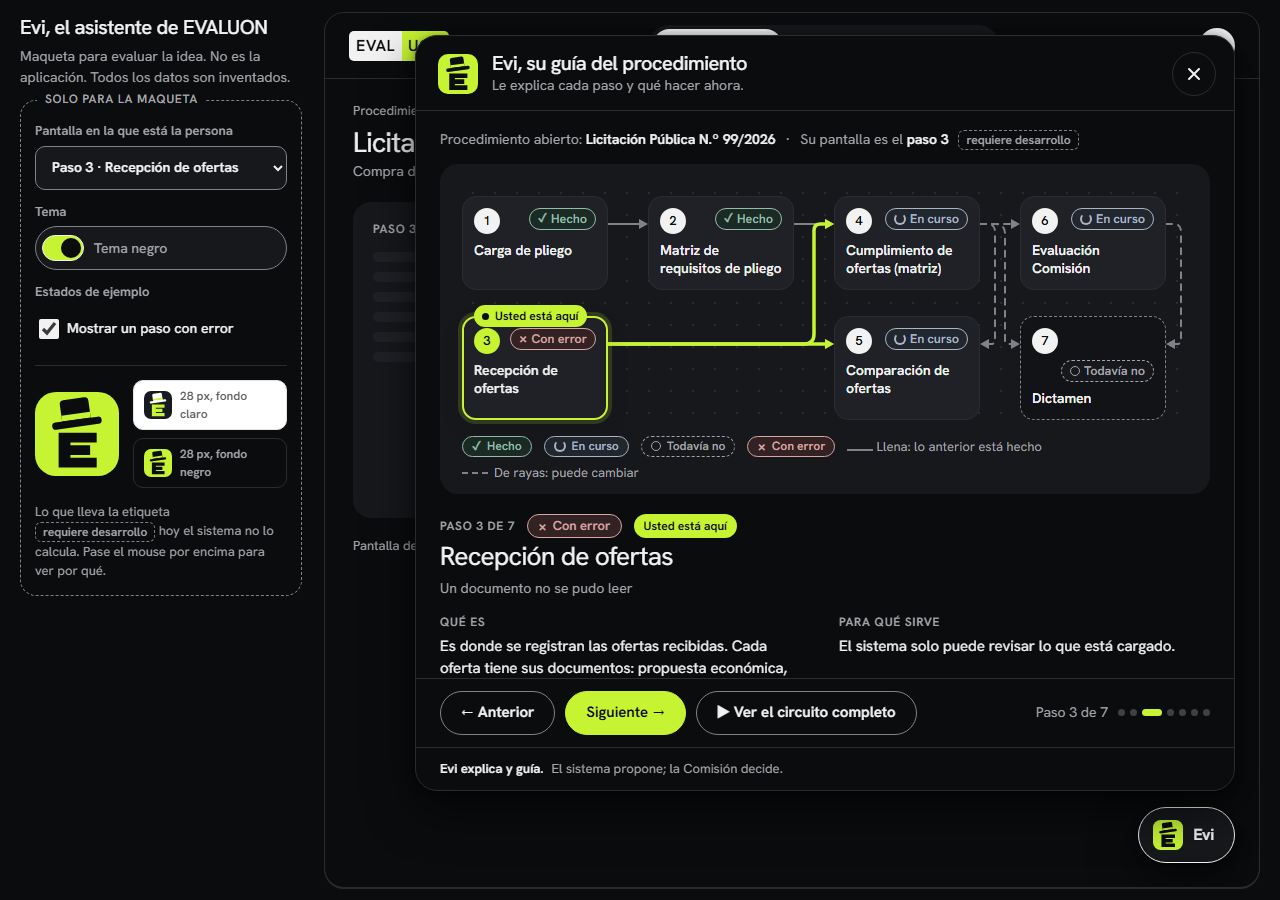
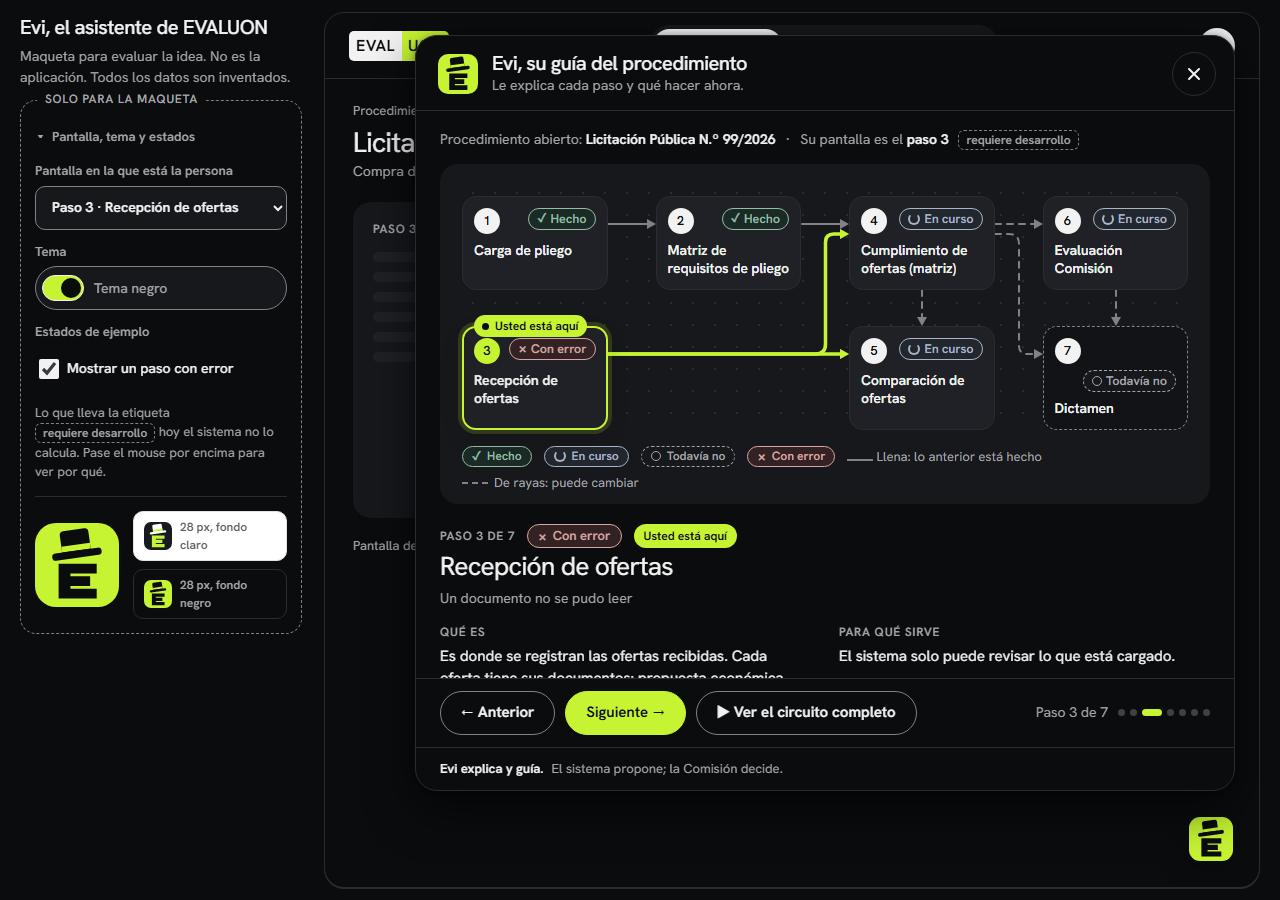
gestión: prototipo de Evi, segunda vuelta (gráfico en angosto, botón animado, preguntas experimentales)

diff --git a/docs/diseno/evi/index.html b/docs/diseno/evi/index.html
@@ -108,10 +108,14 @@ button,select{font:inherit;color:inherit}
 .proc .cap{width:34px;height:34px;border-radius:50%;background:var(--tile-h);flex:none}
 
 /* ---------- Botón de Evi ---------- */
-.evi-btn{position:absolute;right:24px;bottom:24px;z-index:30;display:inline-flex;align-items:center;gap:10px;min-height:56px;padding:0 20px 0 14px;border-radius:999px;border:1.5px solid var(--ink);background:var(--bg);box-shadow:var(--sombra);cursor:pointer;font-size:16px;font-weight:600;letter-spacing:-.01em;transition:transform .24s var(--e-out),background .2s}
-.evi-btn:hover{background:var(--tile)}
-.evi-btn[aria-expanded="true"]{background:var(--tile)}
-.evi-btn:active{transform:scale(.98)}
+.evi-btn{position:absolute;right:24px;bottom:24px;z-index:30;width:48px;height:48px;padding:2px;border-radius:16px;border:0;background:none;cursor:pointer;filter:drop-shadow(0 6px 14px rgba(0,0,0,.28));transition:transform .24s var(--e-out)}
+.evi-btn:hover{transform:translateY(-2px)}
+.evi-btn:active{transform:scale(.97)}
+.evi-btn .tip{position:absolute;right:56px;top:50%;transform:translateY(-50%);background:var(--btn);color:var(--on-btn);font-size:13px;font-weight:600;padding:6px 12px;border-radius:999px;white-space:nowrap;opacity:0;pointer-events:none;transition:opacity .16s}
+.evi-btn:hover .tip,.evi-btn:focus-visible .tip{opacity:1}
+.sombrero{transform-box:fill-box;transform-origin:50% 100%}
+.evi-btn:hover .sombrero,.evi-btn.saluda .sombrero{animation:saludo 1s var(--e-io) 1}
+@keyframes saludo{0%{transform:none}25%{transform:translateY(-3px) rotate(-12deg)}55%{transform:translateY(-2px) rotate(5deg)}80%{transform:translateY(-1px) rotate(-3deg)}100%{transform:none}}
 
 /* ---------- Panel de Evi ---------- */
 .evi{position:absolute;right:24px;bottom:96px;z-index:40;width:min(820px,calc(100% - 48px));max-height:calc(100% - 118px);display:flex;flex-direction:column;background:var(--bg);border:1px solid var(--line);border-radius:22px;box-shadow:var(--sombra);transition:opacity .28s var(--e-out),transform .28s var(--e-out),visibility 0s linear 0s}
@@ -137,7 +141,7 @@ button,select{font:inherit;color:inherit}
 
 /* Mapa */
 .mapa-caja{background:var(--tile);border-radius:18px;padding:18px 22px 12px;position:relative}
-.mapa{position:relative;display:grid;grid-template-columns:repeat(4,minmax(0,1fr));grid-template-rows:auto auto;column-gap:40px;row-gap:26px;padding:14px 22px 4px 0;background-image:radial-gradient(var(--mapa-punto) 1px,transparent 1px);background-size:22px 22px}
+.mapa{position:relative;display:grid;grid-template-columns:repeat(4,minmax(0,1fr));grid-template-rows:auto auto;column-gap:48px;row-gap:36px;padding:14px 0 4px 0;background-image:radial-gradient(var(--mapa-punto) 1px,transparent 1px);background-size:22px 22px}
 .aristas{position:absolute;left:0;top:0;pointer-events:none;overflow:visible}
 .aristas .base{fill:none;stroke:var(--ink-3);stroke-width:2;stroke-linecap:round}
 .aristas .base.rayas{stroke-dasharray:6 6}
@@ -164,6 +168,17 @@ button,select{font:inherit;color:inherit}
 .nodo .cab{display:flex;align-items:center;justify-content:space-between;gap:6px;flex-wrap:wrap}
 .nodo .cab .pill{margin-left:auto}
 .nodo .cab .pill{padding:1px 8px;gap:4px;font-size:12.5px}
+.nodo .num{position:relative}
+.nodo .corto,.nodo .sim{display:none}
+.nodo .sim{position:absolute;top:-7px;right:-9px;width:19px;height:19px;border-radius:50%;border:1.5px solid currentColor;font-size:12px;line-height:1;font-weight:700;place-items:center}
+.sim.hecho{color:var(--ok-ink);background:var(--ok-bg)}
+.sim.hecho::before{content:"\2713"}
+.sim.en_curso{color:var(--pe-ink);background:var(--pe-bg)}
+.sim.en_curso::before{content:"";width:8px;height:8px;border-radius:50%;border:2px solid currentColor;border-top-color:transparent}
+.sim.todavia_no{color:var(--ink-2);background:var(--tile);border-style:dashed}
+.sim.todavia_no::before{content:"";width:7px;height:7px;border-radius:50%;border:1.5px solid currentColor}
+.sim.con_error{color:var(--no-ink);background:var(--no-bg)}
+.sim.con_error::before{content:"\00D7";font-size:14px}
 .pill{display:inline-flex;align-items:center;gap:6px;align-self:flex-start;padding:2px 10px;border:1px solid currentColor;border-radius:999px;font-size:13px;font-weight:600;line-height:1.4;white-space:nowrap}
 .pill::before{content:"";width:8px;height:8px;border-radius:50%;background:currentColor;flex:none}
 .pill.hecho{color:var(--ok-ink);background:var(--ok-bg)}
@@ -217,6 +232,24 @@ button,select{font:inherit;color:inherit}
 .recuadro h4::before{content:"?";display:grid;place-items:center;width:20px;height:20px;border-radius:50%;border:1.5px solid var(--ink);font-size:12px;font-weight:700;flex:none}
 .recuadro p{margin:0;font-size:14px;line-height:1.5;color:var(--ink-2)}
 .estados-intro{display:flex;flex-wrap:wrap;gap:8px;margin:12px 0 0}
+.preg{margin:22px 0 14px;border:1.5px dashed var(--ink-3);border-radius:16px;padding:14px 16px 16px}
+.preg h4{display:flex;flex-wrap:wrap;align-items:center;gap:8px;font-size:16px;font-weight:600;margin:0 0 4px;letter-spacing:-.01em}
+.exp{font-size:12px;font-weight:700;letter-spacing:.05em;text-transform:uppercase;padding:1px 9px;border-radius:999px;background:var(--lime);color:var(--on-lime);border:1px solid var(--ink)}
+.preg-nota{margin:0 0 10px;font-size:14px;color:var(--ink-2)}
+.ejemplos{display:flex;flex-wrap:wrap;gap:8px;margin:0 0 12px}
+.ejemplos button{min-height:44px;padding:8px 14px;border-radius:14px;border:1px solid var(--ink-3);background:var(--bg);font-size:14px;text-align:left;cursor:pointer;line-height:1.3}
+.ejemplos button:hover{background:var(--tile);border-color:var(--ink)}
+.preg-form{display:flex;gap:8px}
+.preg-form input{flex:1;min-width:0;min-height:44px;border:1px solid var(--ink-3);border-radius:999px;padding:0 16px;background:var(--bg);color:var(--ink);font-size:15px}
+.preg-sal{margin-top:12px}
+.burbuja{background:var(--tile-h);border-radius:14px 14px 4px 14px;padding:8px 14px;margin:0 0 8px auto;max-width:90%;width:fit-content;font-size:14px}
+.respuesta{background:var(--tile);border-radius:14px;padding:12px 16px}
+.respuesta p{margin:0 0 8px;font-size:15px;line-height:1.5}
+.respuesta .fuente,.respuesta .aviso-ia{font-size:13px;color:var(--ink-2);margin:0}
+.respuesta .fuente{margin-top:4px;font-weight:600}
+.pensando{margin:0;font-size:15px;color:var(--ink-2);display:flex;align-items:center;gap:8px}
+.pensando::before{content:"";width:12px;height:12px;border-radius:50%;border:2px solid currentColor;border-top-color:transparent;animation:gira .8s linear infinite}
+@keyframes gira{to{transform:rotate(360deg)}}
 .evi-pie{border-top:1px solid var(--line);padding:11px 24px 12px;font-size:13px;color:var(--ink-2);display:flex;gap:8px;align-items:center}
 .evi-pie b{color:var(--ink);font-weight:600}
 .fade{animation:entra .36s var(--e-out)}
@@ -246,23 +279,34 @@ button,select{font:inherit;color:inherit}
   .bloques{grid-template-columns:1fr}
   .bloque.alto{grid-row:auto;min-height:150px}
   .evi-btn{right:14px;bottom:14px}
-  .evi{left:8px;right:8px;width:auto;top:8px;bottom:84px;max-height:none;border-radius:18px}
+  .evi{left:8px;right:8px;width:auto;top:8px;bottom:72px;max-height:none;border-radius:18px}
   .evi-cab{padding:12px 12px 10px 16px}
-  .evi-cuerpo{padding:14px 14px 4px}
-  .mapa-caja{padding:12px;border-radius:14px}
-  .mapa{display:flex;flex-direction:column;gap:8px;padding:0;background:none}
-  .aristas{display:none}
-  .nodo{display:grid;grid-template-columns:auto 1fr auto;column-gap:10px;row-gap:2px;align-items:center;padding:10px 12px;position:static}
-  .nodo.sel{padding:9px 11px}
-  .nodo .cab{display:contents}
-  .nodo .num{grid-row:1/3;grid-column:1}
-  .nodo .nombre{grid-column:2;grid-row:1}
-  .nodo .dato{grid-column:2;grid-row:2}
-  .nodo.sel .dato{display:block}
-  .nodo.sel .dato:empty{display:none}
-  .nodo .pill{grid-column:3;grid-row:1/3;align-self:center}
-  .nodo.sel .dep{display:block;grid-column:2/4;grid-row:3;margin-top:2px}
-  .nodo .aqui{position:static;grid-column:2/4;grid-row:4;justify-self:start;margin-top:6px}
+  .evi-cuerpo{padding:14px 10px 4px}
+  .mapa-caja{padding:10px 8px 8px;border-radius:14px}
+  .mapa{grid-template-columns:repeat(4,minmax(0,1fr));column-gap:14px;row-gap:30px;padding:0;background:none}
+  .mapa .nodo,.mapa .nodo.sel,.mapa .nodo.s-todavia_no{background:none;border:0;box-shadow:none;padding:0;gap:4px;align-items:center;text-align:center;border-radius:10px}
+  .mapa .nodo:hover{border:0}
+  .nodo .nombre,.nodo .pill,.nodo .dato,.nodo .dep{display:none}
+  .nodo .corto{display:block;font-size:12px;font-weight:600;line-height:1.2;min-height:29px;text-align:center;hyphens:manual}
+  .nodo .sim{display:grid}
+  .nodo .num{width:34px;height:34px;font-size:15px;background:var(--mapa-nodo);color:var(--ink);border:3px solid var(--ink-3)}
+  .nodo.s-hecho .num{border-color:var(--ok)}
+  .nodo.s-en_curso .num{border-color:var(--pe)}
+  .nodo.s-con_error .num{border-color:var(--no)}
+  .nodo.s-todavia_no .num{border-style:dashed}
+  .mapa .nodo.sel .num{background:var(--sel);color:var(--bg);box-shadow:0 0 0 4px color-mix(in srgb,var(--sel) 22%,transparent)}
+  [data-theme="negro"] .mapa .nodo.sel .num{color:#0B0C0E}
+  .nodo .cab{display:flex;justify-content:center}
+  .nodo .aqui{position:static;flex:none;order:3}
+  .nodo .aqui[hidden]{display:inline-flex!important;visibility:hidden}
+  .nodo[data-n="1"],.nodo[data-n="2"],.nodo[data-n="4"],.nodo[data-n="6"]{justify-content:flex-end}
+  .nodo[data-n="1"] .aqui,.nodo[data-n="2"] .aqui,.nodo[data-n="4"] .aqui,.nodo[data-n="6"] .aqui{order:0}
+  .nodo[data-n="1"] .corto,.nodo[data-n="2"] .corto,.nodo[data-n="4"] .corto,.nodo[data-n="6"] .corto{order:1}
+  .nodo[data-n="1"] .cab,.nodo[data-n="2"] .cab,.nodo[data-n="4"] .cab,.nodo[data-n="6"] .cab{order:2}
+  .nodo[data-n="3"] .cab,.nodo[data-n="5"] .cab,.nodo[data-n="7"] .cab{order:0}
+  .nodo[data-n="3"] .corto,.nodo[data-n="5"] .corto,.nodo[data-n="7"] .corto{order:1}
+  .nodo[data-n="3"] .aqui,.nodo[data-n="1"] .aqui{align-self:flex-start}
+  .nodo[data-n="6"] .aqui,.nodo[data-n="7"] .aqui{align-self:flex-end}
   .dos{grid-template-columns:1fr}
   .texto h3{font-size:22px}
   .recorrido{padding:10px 12px;gap:8px}
@@ -271,6 +315,9 @@ button,select{font:inherit;color:inherit}
   .contexto .sep{display:none}
   .recorrido .btn{flex:1 1 auto;padding:0 12px}
   .evi-pie{padding:10px 14px}
+  .preg{padding:12px}
+  .preg-form{flex-wrap:wrap}
+  .preg-form .btn{flex:1}
 }
 @media (prefers-reduced-motion:reduce){
   *,*::before,*::after{animation:none!important;transition:none!important;scroll-behavior:auto!important}
@@ -338,9 +385,17 @@ button,select{font:inherit;color:inherit}
       <div class="cuerpo" id="cuerpo"></div>
     </div>
 
-    <button type="button" class="evi-btn" id="evi-btn" aria-expanded="true" aria-controls="evi">
-      <svg class="logo" width="30" height="30" viewBox="0 0 64 64" aria-hidden="true"><use href="#logo-evi"/></svg>
-      <span>Evi</span><span class="vh"> , el asistente: abrir o cerrar la guía</span>
+    <button type="button" class="evi-btn" id="evi-btn" aria-expanded="true" aria-controls="evi" aria-label="Evi, el asistente: abrir o cerrar la guía">
+      <svg class="logo" width="44" height="44" viewBox="0 0 64 64" aria-hidden="true" focusable="false">
+        <rect width="64" height="64" rx="16" fill="var(--lg-bg)"/>
+        <path d="M18 31H47V38.5H27V40.5H42V48H27V50H47V57.5H18Z" fill="var(--lg-e)"/>
+        <g transform="rotate(-8 32 24)"><g class="sombrero">
+          <rect x="21" y="5" width="22" height="19" rx="3" fill="var(--lg-hat)"/>
+          <rect x="21" y="16.5" width="22" height="4.5" fill="var(--lg-band)"/>
+          <rect x="13" y="21" width="38" height="5.5" rx="2.75" fill="var(--lg-hat)"/>
+        </g></g>
+      </svg>
+      <span class="tip" aria-hidden="true">Evi, su asistente</span>
     </button>
 
     <section class="evi" id="evi" role="dialog" aria-labelledby="evi-titulo">
@@ -361,6 +416,13 @@ button,select{font:inherit;color:inherit}
           <p class="leyenda" id="leyenda"></p>
         </div>
         <div class="texto" id="texto" aria-live="polite"></div>
+        <section class="preg" id="preg" aria-labelledby="preg-t">
+          <h4 id="preg-t">Pregúntele a Evi <span class="exp">Experimental</span> <span class="dev" tabindex="0" title="Hoy el sistema no tiene este asistente de preguntas: requiere conectar la IA local con las guías y las especificaciones, y dejar registro de cada pregunta y respuesta." aria-label="Requiere desarrollo. Hoy el sistema no tiene este asistente de preguntas.">requiere desarrollo</span></h4>
+          <p class="preg-nota">Es una maqueta: no hay IA. Solo responden los ejemplos, escritos de antemano.</p>
+          <div class="ejemplos" id="ejemplos"></div>
+          <form class="preg-form" id="preg-form"><label class="vh" for="preg-txt">Escriba su pregunta</label><input id="preg-txt" type="text" placeholder="Escriba su pregunta" autocomplete="off"><button type="submit" class="btn">Preguntar</button></form>
+          <div class="preg-sal" id="preg-sal" aria-live="polite"></div>
+        </section>
       </div>
       <div class="recorrido" id="recorrido">
         <button type="button" class="btn sec" id="b-ant">&larr; Anterior</button>
@@ -441,6 +503,7 @@ const PASOS = [
     aca: ["Todavía no se puede cargar: <b>depende de los pasos 4 y 6</b>. Cuando estén hechos, va a aparecer «Cargar el dictamen».", "Si el mantenimiento de las ofertas vence hoy o ya venció, aparece igual."],
     recuadros: [["Qué es un dictamen", "Lo redacta la Comisión; el sistema no lo escribe. Una vez cargado, el procedimiento sale de la lista de abiertos."]] }
 ];
+const CORTO = ["Pliego", "Matriz", "Ofertas", "Cumpli&shy;miento", "Compa&shy;ración", "Evalua&shy;ción", "Dictamen"];
 const P = n => PASOS[n - 1];
 const viene = n => ARISTAS.filter(a => a[1] === n).map(a => a[0]);
 const sigue = n => ARISTAS.filter(a => a[0] === n).map(a => a[1]);
@@ -501,8 +564,8 @@ function armarMapa() {
     b.type = "button"; b.className = "nodo"; b.dataset.n = p.n;
     b.style.gridColumn = CASILLA[p.n][0]; b.style.gridRow = CASILLA[p.n][1];
     b.innerHTML = `<span class="aqui" hidden>Usted está aquí</span>
-      <span class="cab"><span class="num">${p.n}</span><span class="pill"></span></span>
-      <span class="nombre">${p.nombre}</span><span class="dato"></span>
+      <span class="cab"><span class="num">${p.n}<span class="sim" aria-hidden="true"></span></span><span class="pill"></span></span>
+      <span class="nombre">${p.nombre}</span><span class="corto" aria-hidden="true">${CORTO[p.n - 1]}</span><span class="dato"></span>
       <span class="dep">${viene(p.n).length ? "Viene de: " + lista(viene(p.n)) : "Se puede empezar sin esperar a otro paso"}</span>`;
     b.addEventListener("click", () => { detener(); ir(p.n); });
     mapa.appendChild(b);
@@ -516,6 +579,7 @@ function actualizarNodos() {
     $(".aqui", b).hidden = S.pantalla !== n;
     const pill = $(".pill", b);
     pill.hidden = !hay; pill.className = "pill " + e; pill.textContent = hay ? EST[e] : "";
+    const sim = $(".sim", b); sim.hidden = !hay; sim.className = "sim " + e;
     $(".dato", b).textContent = hay ? (S.error && n === 3 ? "Un documento no se pudo leer" : P(n).dato) : "";
     if (S.sel === n) b.setAttribute("aria-current", "step"); else b.removeAttribute("aria-current");
     b.setAttribute("aria-label", `Paso ${n}: ${P(n).nombre}.` + (hay ? " " + EST[e] + "." : "") + (S.pantalla === n ? " Usted está aquí." : ""));
@@ -534,21 +598,26 @@ function redondeada(pts, r) {
 }
 function trazar() {
   const svg = $("#aristas");
-  if (!svg || angosto()) return;
-  const nodo = n => { const e = mapa.querySelector(`.nodo[data-n="${n}"]`); return { l: e.offsetLeft, r: e.offsetLeft + e.offsetWidth, y: e.offsetTop + 28 }; };
-  if (!nodo(1).r) return;
+  if (!svg) return;
+  const nar = angosto();
+  const R = n => {
+    const b = mapa.querySelector(`.nodo[data-n="${n}"]`);
+    if (nar) { const c = $(".num", b), l = b.offsetLeft + c.offsetLeft, t = b.offsetTop + c.offsetTop; return { l, r: l + c.offsetWidth, t, b: t + c.offsetHeight, cx: l + c.offsetWidth / 2, cy: t + c.offsetHeight / 2 }; }
+    const l = b.offsetLeft, t = b.offsetTop; return { l, r: l + b.offsetWidth, t, b: t + b.offsetHeight, cx: l + b.offsetWidth / 2, cy: t + 28 };
+  };
+  if (!R(1).r) return;
   svg.setAttribute("width", mapa.clientWidth); svg.setAttribute("height", mapa.clientHeight);
-  const hueco = nodo(4).l - nodo(2).r, mit = hueco / 2;
+  const ofs = nar ? 6 : 10;
   ARISTAS.forEach(([a, b]) => {
-    const A = nodo(a), B = nodo(b); let pts, dir = 1;
-    if (a === 3 && b === 4) pts = [[A.r, A.y], [B.l - mit, A.y], [B.l - mit, B.y], [B.l, B.y]];
-    else if (a === 4 && b === 5) { const x = A.r + mit - 5; pts = [[A.r, A.y], [x, A.y], [x, B.y], [B.r, B.y]]; dir = -1; }
-    else if (a === 4 && b === 7) { const x = A.r + mit + 5; pts = [[A.r, A.y], [x, A.y], [x, B.y], [B.l, B.y]]; }
-    else if (a === 6 && b === 7) { const x = A.r + 15; pts = [[A.r, A.y], [x, A.y], [x, B.y], [B.r, B.y]]; dir = -1; }
-    else pts = [[A.r, A.y], [B.l, B.y]];
-    const fin = pts[pts.length - 1], linea = pts.slice(); linea[linea.length - 1] = [fin[0] - 7 * dir, fin[1]];
-    const d = redondeada(linea, 10);
-    const punta = `M${fin[0]} ${fin[1]} L${fin[0] - 9 * dir} ${fin[1] - 5} L${fin[0] - 9 * dir} ${fin[1] + 5}Z`;
+    const A = R(a), B = R(b); let pts, dir = [1, 0];
+    if (a === 3 && b === 4) { const x = (R(2).r + B.l) / 2; pts = [[A.r, A.cy], [x, A.cy], [x, B.cy + ofs], [B.l, B.cy + ofs]]; }
+    else if (a === 4 && b === 7) { const x = (A.r + R(6).l) / 2; pts = [[A.r, A.cy + ofs], [x, A.cy + ofs], [x, B.cy], [B.l, B.cy]]; }
+    else if ((a === 4 && b === 5) || (a === 6 && b === 7)) { pts = [[A.cx, A.b], [A.cx, B.t]]; dir = [0, 1]; }
+    else pts = [[A.r, A.cy], [B.l, B.cy]];
+    const fin = pts[pts.length - 1], linea = pts.slice();
+    linea[linea.length - 1] = [fin[0] - 7 * dir[0], fin[1] - 7 * dir[1]];
+    const d = redondeada(linea, 10), bx = fin[0] - 9 * dir[0], by = fin[1] - 9 * dir[1], px = -dir[1] * 5, py = dir[0] * 5;
+    const punta = `M${fin[0]} ${fin[1]} L${bx + px} ${by + py} L${bx - px} ${by - py}Z`;
     const g = svg.querySelector(`g[data-a="${a}-${b}"]`);
     g.querySelector(".base").setAttribute("d", d); g.querySelector(".luz").setAttribute("d", d);
     g.querySelector(".punta").setAttribute("d", punta); g.querySelector(".punta-luz").setAttribute("d", punta);
@@ -684,6 +753,49 @@ document.addEventListener("keydown", e => {
   e.preventDefault(); detener(); ir(n); mapa.querySelector(`.nodo[data-n="${n}"]`).focus();
 });
 
+/* ---------- Preguntas a Evi (experimental; no hay IA: respuestas escritas de antemano) ---------- */
+const EJEMPLOS = [
+  { q: "¿Qué es un punto no determinado?", fuente: "la guía del paso 6",
+    a: ["Es un punto donde el sistema no pudo concluir si la oferta cumple o no, porque dudó o no pudo comprobar lo que dice el documento.", "En esos casos no inventa un resultado: lo deja «no determinado», cita lo que encontró y le pide a la Comisión que decida. En cada uno puede confirmar, corregir o rechazar."] },
+  { q: "¿Puedo cargar el dictamen si falta un informe técnico?", fuente: "la guía del paso 7",
+    a: ["Por lo general todavía no. «Cargar el dictamen» aparece cuando los pasos 4 y 6 están hechos, y el paso 4 no se da por hecho mientras haya puntos que esperan el informe técnico.", "La excepción es que el mantenimiento de las ofertas venza hoy o ya haya vencido: en ese caso la opción aparece igual. Qué hacer entonces lo decide la Comisión."] },
+  { q: "¿Qué pasa si llega una circular después de validar la matriz?", fuente: "la guía del paso 2",
+    a: ["Si la circular cambia el pliego, el paso 2 vuelve solo a «En curso»: nadie tiene que marcarlo.", "Se abre una versión nueva de la matriz con lo que cambió marcado, y una persona de la Comisión tiene que validarla otra vez. La versión anterior no se pierde."] },
+  { q: "¿A qué oferta hay que adjudicar?", fuente: "la guía del paso 5 y el principio «el sistema propone, la Comisión decide»",
+    a: ["Eso no lo puedo decir ni recomendar: elegir a quién adjudicar es una decisión de la Comisión Evaluadora.", "Lo que sí puedo mostrarle es el orden por precio del paso 5, que es una propuesta, y qué ofertas cumplen según lo que la Comisión fue decidiendo."] }
+];
+const SIN_RESPUESTA = { fuente: "ninguna: en la maqueta no hay IA", a: ["En esta maqueta solo responden las preguntas de ejemplo de arriba. En la aplicación real, Evi contestaría con la IA local, apoyándose en las guías y en las especificaciones.", "Pruebe con uno de los ejemplos."] };
+const normal = t => t.toLowerCase().normalize("NFD").replace(/[̀-ͯ]/g, "").replace(/[^a-z0-9 ]/g, " ").replace(/\s+/g, " ").trim();
+let tPreg = null;
+function responder(texto) {
+  const n = normal(texto);
+  let e = EJEMPLOS.find(x => normal(x.q) === n);
+  if (!e && /adjudic|recomiend|recomend|quien gana|cual conviene/.test(n)) e = EJEMPLOS[3];
+  return e || SIN_RESPUESTA;
+}
+function preguntar(texto) {
+  const sal = $("#preg-sal"); if (!texto.trim()) return;
+  const esc = t => t.replace(/[&<>]/g, c => ({ "&": "&amp;", "<": "&lt;", ">": "&gt;" }[c]));
+  sal.innerHTML = `<p class="burbuja">${esc(texto)}</p><div class="respuesta"><p class="pensando">Evi está pensando…</p></div>`;
+  clearTimeout(tPreg);
+  tPreg = setTimeout(() => {
+    const e = responder(texto);
+    $(".respuesta", sal).innerHTML = e.a.map(p => `<p>${p}</p>`).join("") +
+      `<p class="aviso-ia">Respuesta generada por la IA local. Puede equivocarse: no reemplaza al pliego ni a la decisión de la Comisión.</p><p class="fuente">Basada en: ${e.fuente}</p>`;
+  }, 1000);
+}
+$("#ejemplos").innerHTML = EJEMPLOS.map((e, i) => `<button type="button" data-i="${i}">${e.q}</button>`).join("");
+$("#ejemplos").addEventListener("click", ev => { const b = ev.target.closest("button"); if (b) preguntar(EJEMPLOS[+b.dataset.i].q); });
+$("#preg-form").addEventListener("submit", ev => { ev.preventDefault(); const i = $("#preg-txt"); preguntar(i.value); i.value = ""; });
+
+/* ---------- Saludo del sombrero: una vez al cargar y de vez en cuando; quieto con movimiento reducido ---------- */
+function saludar() {
+  if (reducido()) return;
+  boton.classList.add("saluda");
+  setTimeout(() => boton.classList.remove("saluda"), 1100);
+}
+setTimeout(saludar, 700); setInterval(saludar, 40000);
+
 /* ---------- Controles de la maqueta ---------- */
 function tema(nombre) {
   S.tema = nombre; document.documentElement.toggleAttribute("data-theme", nombre === "negro");
@@ -709,7 +821,8 @@ if (qs.get("error") === "1") { S.error = true; $("#ck-error").checked = true; }
 pintarPantalla();
 S.sel = qs.get("paso") ? +qs.get("paso") : (S.pantalla > 0 ? S.pantalla : null);
 if (S.sel) S.visitados.add(S.sel);
-if (qs.get("cerrado") === "1") { cerrar(false); } else { panel.inert = false; render(); }
+if (qs.get("preg") !== null && qs.get("preg") !== "") { preguntar(EJEMPLOS[+qs.get("preg")].q); }
+if (qs.get("cerrado") === "1") { cerrar(false); } else { panel.inert = false; render(); if (qs.get("preg") !== null && qs.get("preg") !== "") setTimeout(() => $("#preg").scrollIntoView({ block: "end" }), 1300); }
 })();
 </script>
 </body>
